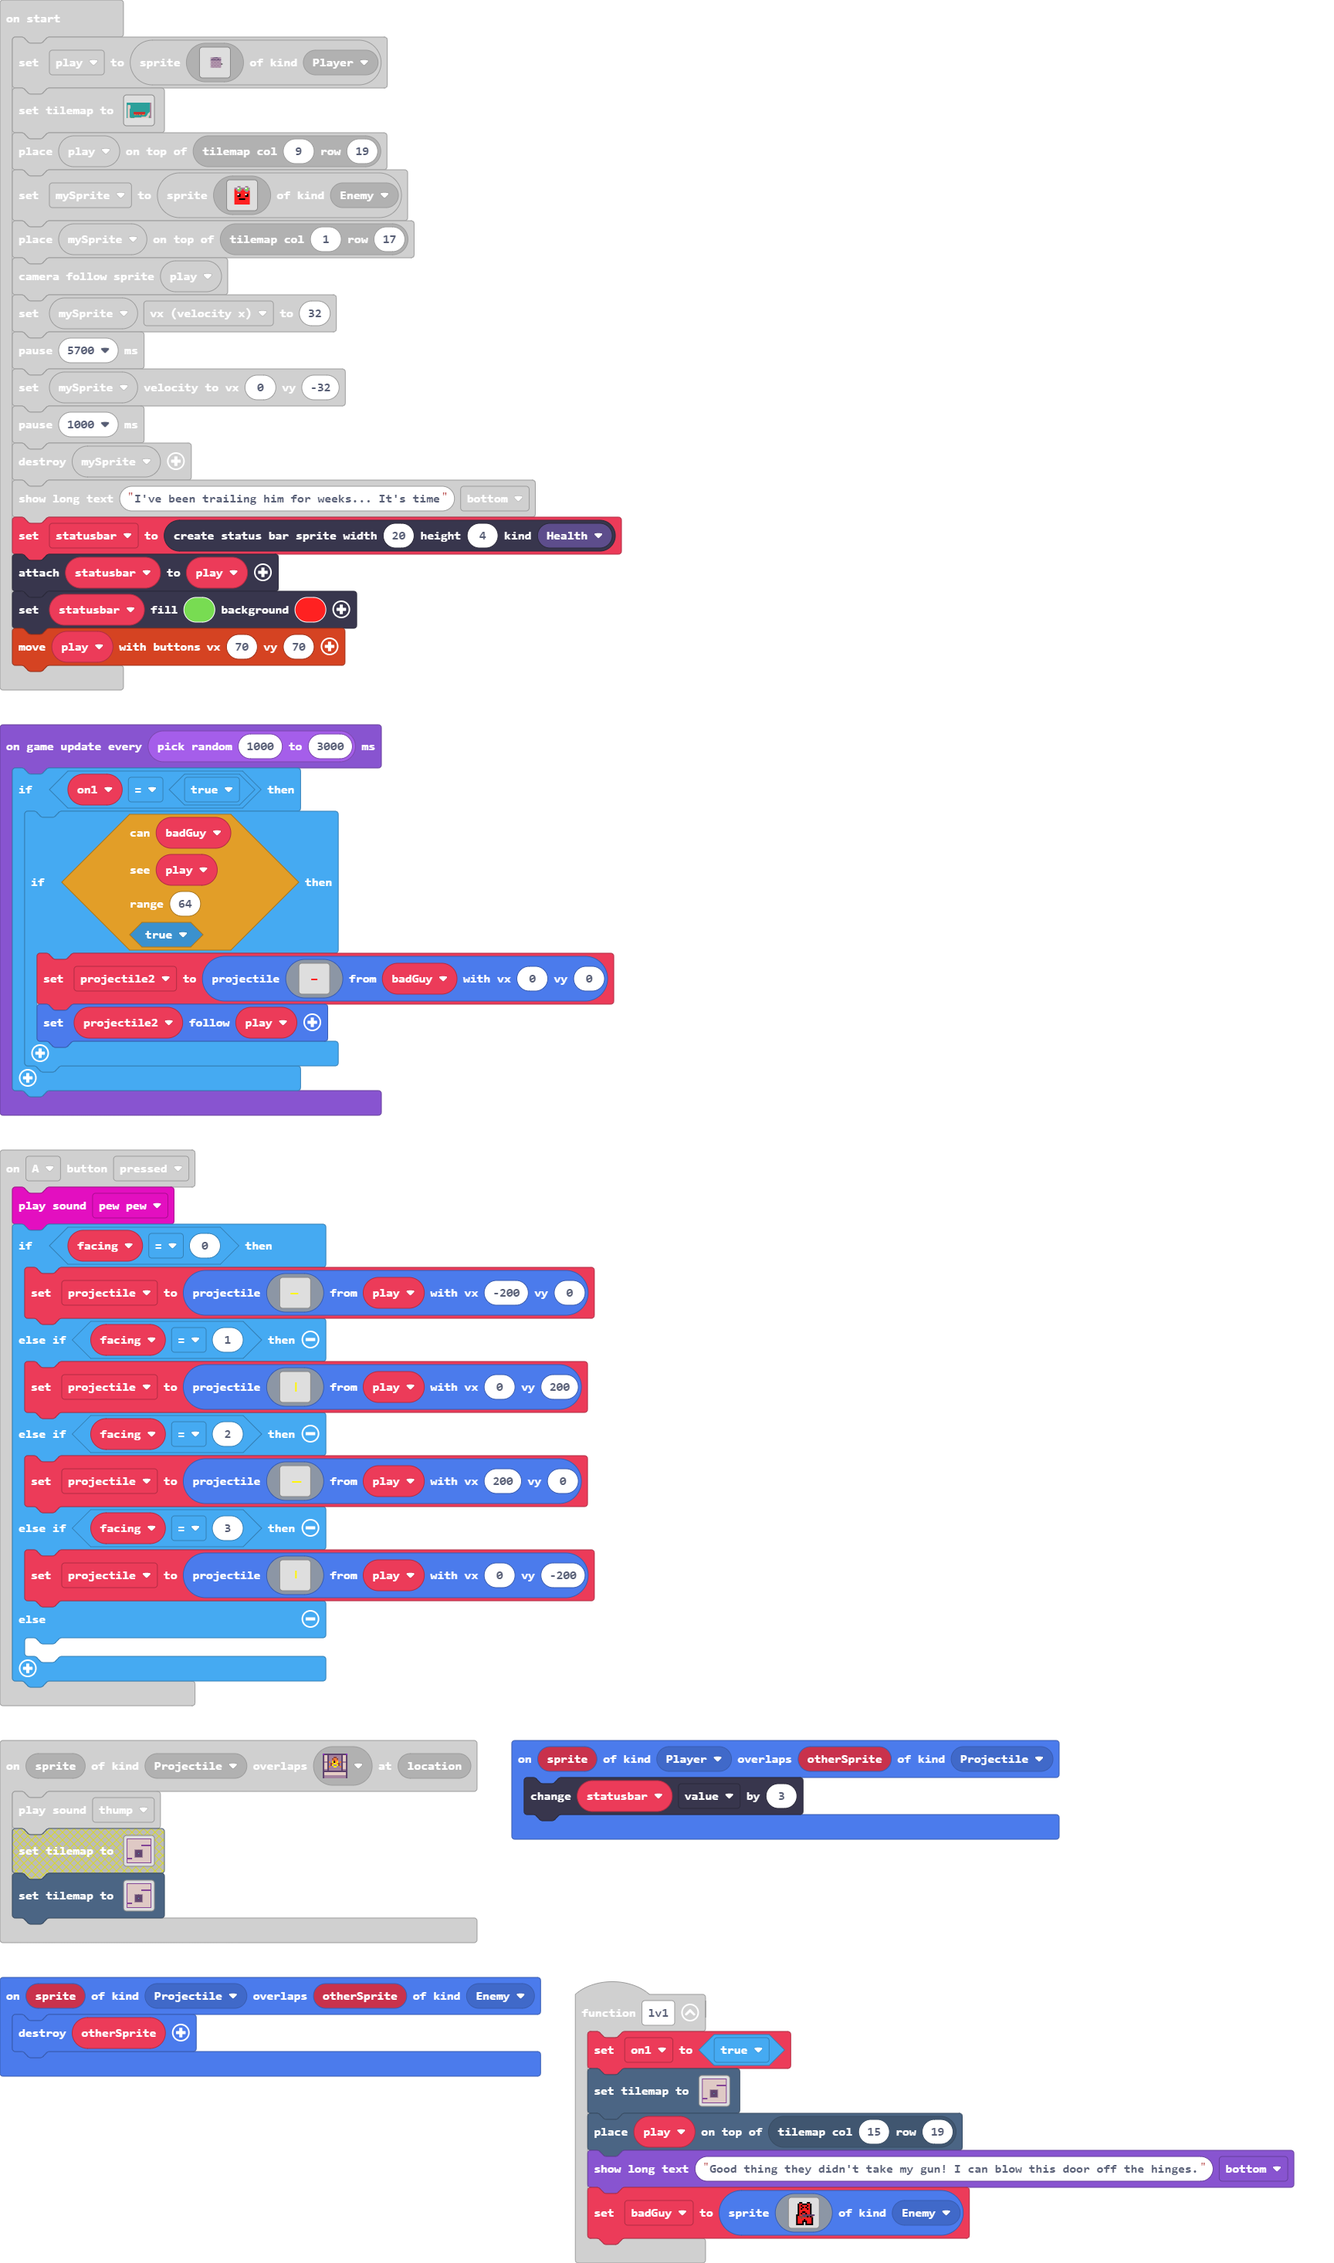
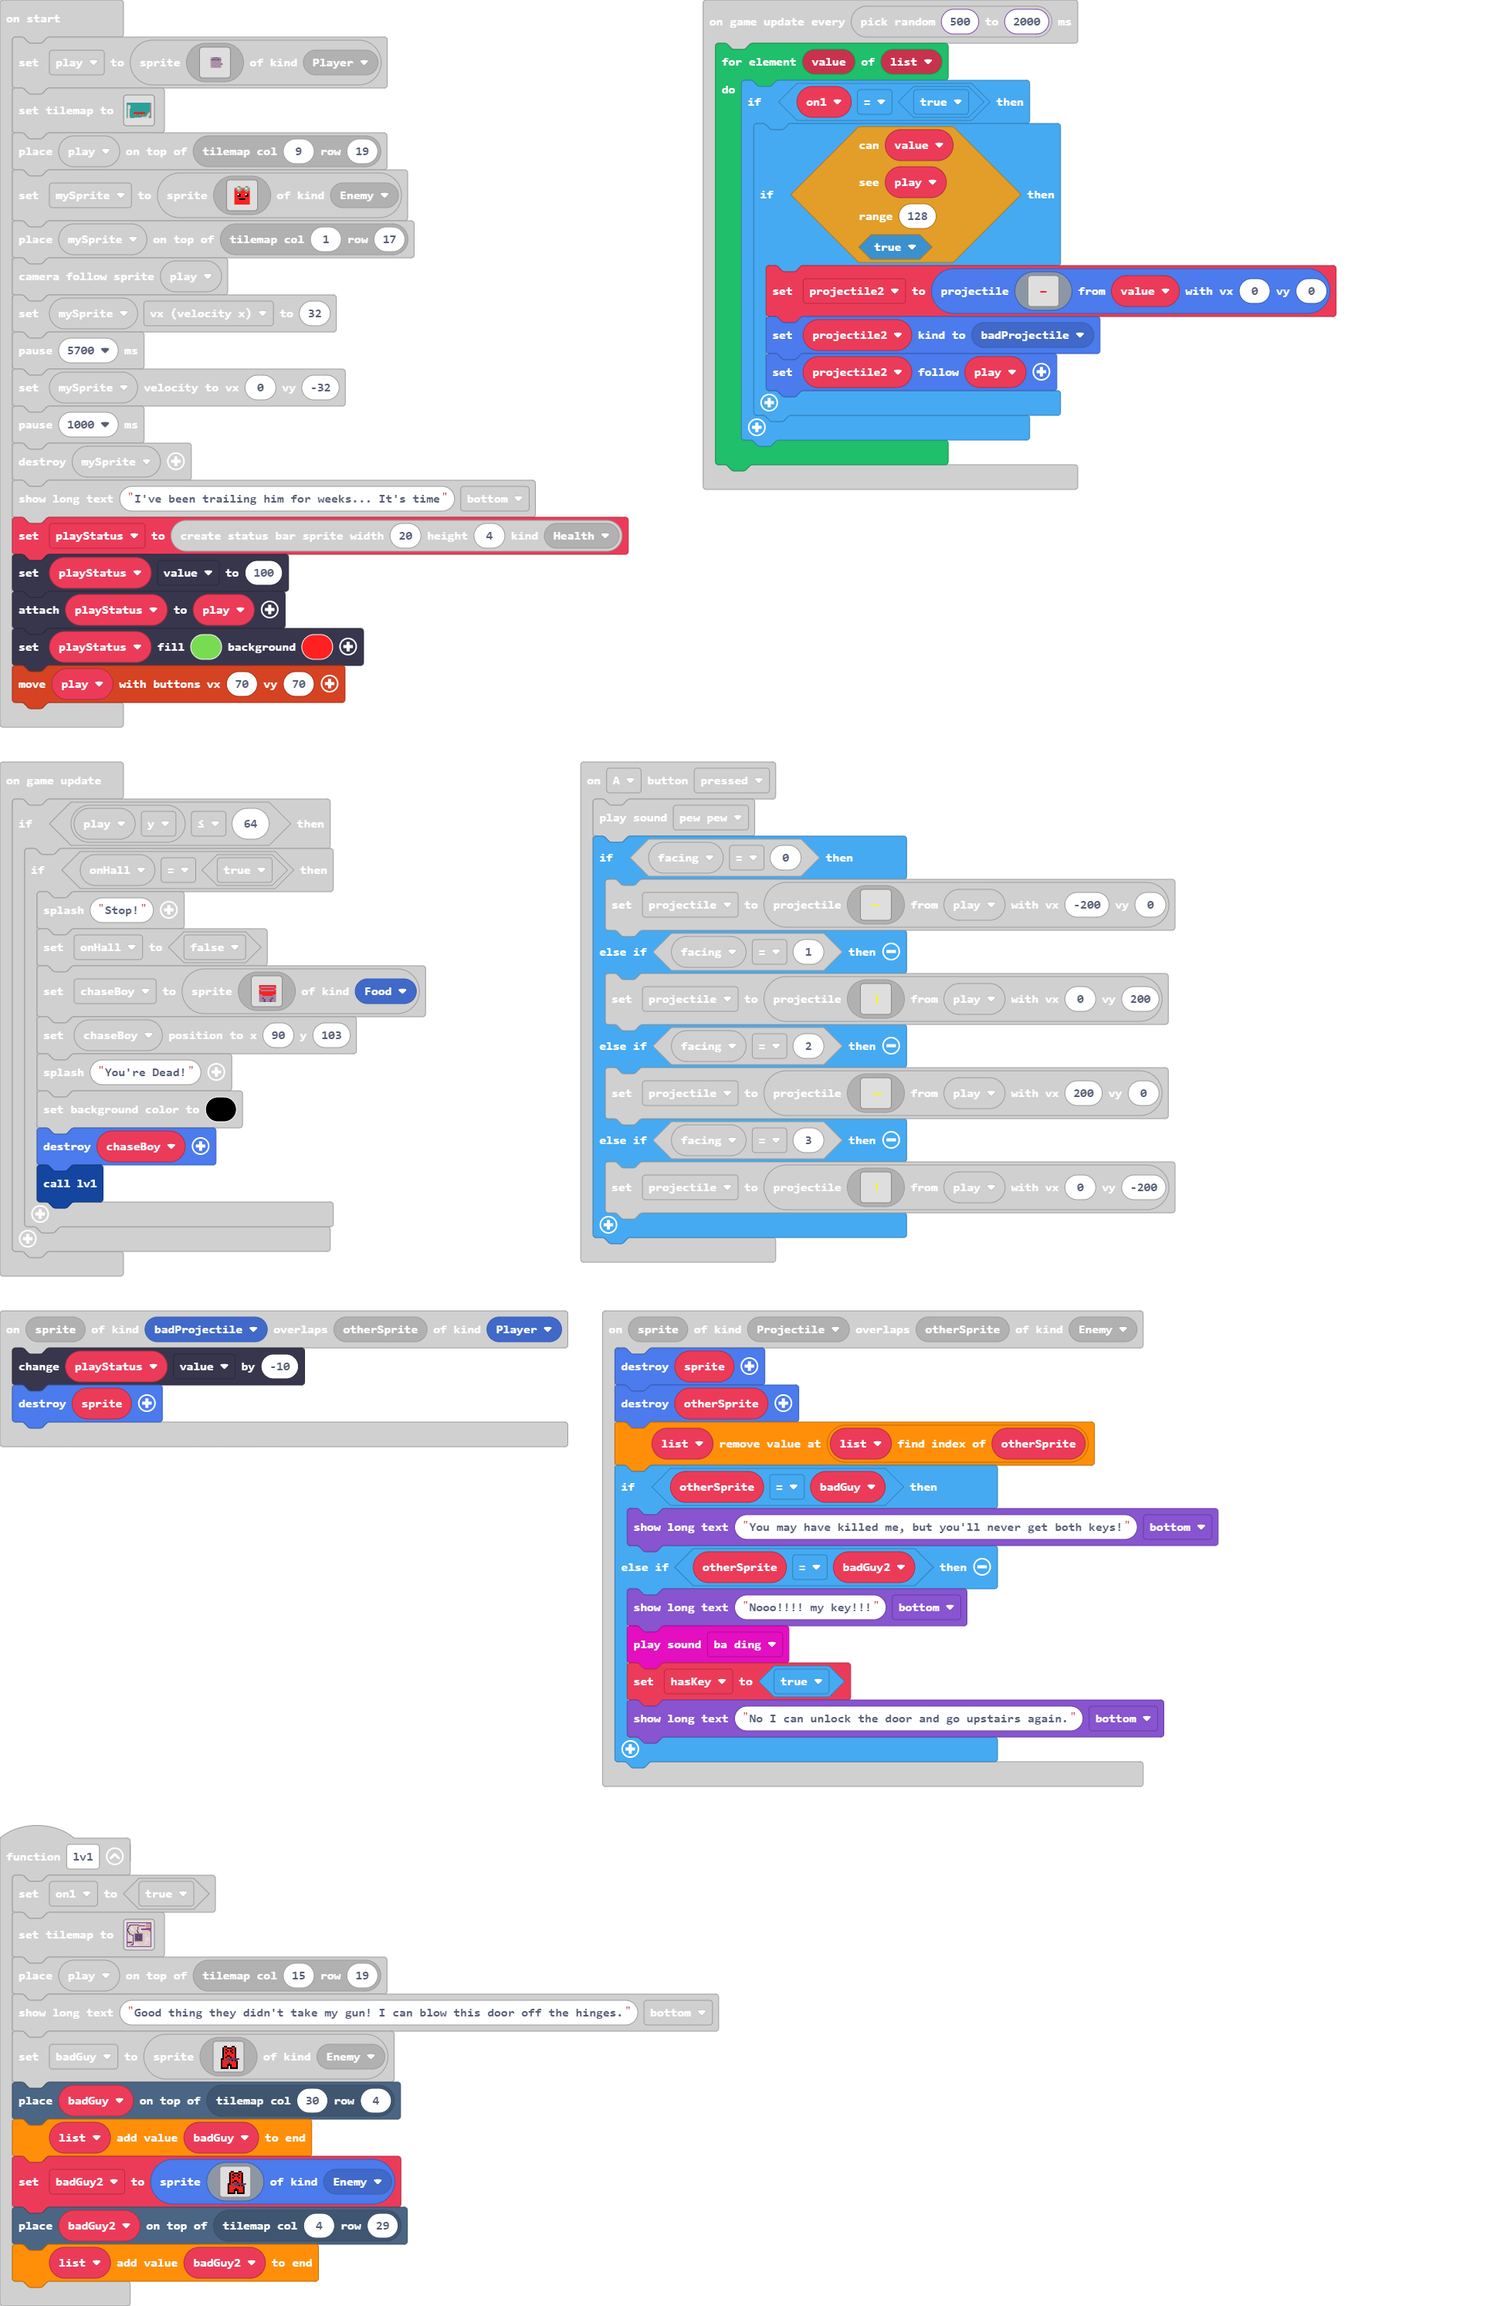
Update main.blocks, main.ts, tilemap.g.jres, tilemap.g.ts

diff --git a/tilemap.g.ts b/tilemap.g.ts
@@ -54,6 +54,8 @@ namespace myTiles {
     export const tile25 = image.ofBuffer(hex``);
     //% fixedInstance jres blockIdentity=images._tile
     export const tile26 = image.ofBuffer(hex``);
+    //% fixedInstance jres blockIdentity=images._tile
+    export const tile27 = image.ofBuffer(hex``);
 
     helpers._registerFactory("tilemap", function(name: string) {
         switch(helpers.stringTrim(name)) {
@@ -161,41 +163,6 @@ namespace myTiles {
 2..............................2
 22222222222222222222222222222222
 `, [myTiles.transparency16,sprites.dungeon.purpleOuterNorthWest,sprites.dungeon.purpleOuterWest0,sprites.dungeon.purpleOuterSouthEast,sprites.dungeon.purpleOuterNorth0,sprites.dungeon.floorLight2,sprites.dungeon.purpleOuterSouth1,sprites.dungeon.doorOpenNorth,sprites.dungeon.purpleInnerNorthEast,sprites.dungeon.purpleInnerSouthEast,sprites.dungeon.stairWest,sprites.dungeon.stairNorth,sprites.dungeon.darkGroundNorthWest0,sprites.dungeon.darkGroundWest,sprites.dungeon.darkGroundSouthWest0,sprites.dungeon.darkGroundNorth,sprites.dungeon.darkGroundSouth,sprites.dungeon.darkGroundNorthEast0,sprites.dungeon.darkGroundSouthEast0,sprites.dungeon.darkGroundCenter,sprites.dungeon.collectibleInsignia,sprites.dungeon.darkGroundEast,sprites.dungeon.purpleInnerNorthWest,sprites.dungeon.purpleInnerSouthWest,sprites.dungeon.purpleOuterNorth1,sprites.dungeon.purpleOuterNorthEast,sprites.dungeon.purpleOuterEast0,sprites.dungeon.purpleOuterSouthWest,sprites.dungeon.doorOpenSouth], TileScale.Sixteen);
-            case "level3":
[1 lines of base64/hex data omitted]
-22222.22222222222222222222222222
-2..............................2
-2..............................2
-2..............................2
-2..............................2
-2..............................2
-2..............................2
-2..............................2
-2..................2222222222222
-2..................2222222222222
-2..............................2
-2..............................2
-2..............................2
-2..............................2
-2.........22222.22222..........2
-2.........2.........2..........2
-2.........2.........2..........2
-2.........2.........2..........2
-2.........2.........2..........2
-2.........2.........2..........2
-2.........2.........2..........2
-2.........2.........2..........2
-2.........2.........2..........2
-2.........2.........2..........2
-2.........22222222222..........2
-2222222........................2
-2222222........................2
-2..............................2
-2..............................2
-2..............................2
-2..............................2
-22222222222222222222222222222222
-`, [myTiles.transparency16,sprites.dungeon.stairWest,sprites.dungeon.stairNorth,sprites.dungeon.darkGroundNorthWest0,sprites.dungeon.darkGroundNorth,sprites.dungeon.darkGroundNorthEast0,sprites.dungeon.darkGroundSouthWest0,sprites.dungeon.darkGroundSouthEast0,sprites.dungeon.darkGroundSouth,sprites.dungeon.darkGroundWest,sprites.dungeon.darkGroundEast,sprites.dungeon.darkGroundCenter,sprites.dungeon.collectibleInsignia,sprites.dungeon.purpleOuterNorth1,sprites.dungeon.purpleInnerSouthWest,sprites.dungeon.purpleInnerNorthWest,sprites.dungeon.purpleOuterSouth1,sprites.dungeon.purpleOuterSouthWest,sprites.dungeon.purpleOuterSouthEast,sprites.dungeon.purpleOuterWest0,sprites.dungeon.purpleOuterNorthWest,sprites.dungeon.purpleOuterNorth0,sprites.dungeon.purpleOuterNorthEast,sprites.dungeon.purpleOuterEast0,sprites.dungeon.floorLight2,sprites.dungeon.purpleInnerNorthEast,sprites.dungeon.purpleInnerSouthEast,sprites.dungeon.doorOpenNorth,sprites.dungeon.doorLockedSouth], TileScale.Sixteen);
             case "level6":
             case "level6":return tiles.createTilemap(hex`1000100000000000000000000000000000000000000000000000000000000000000000000000000000000000000000000000000000000000000000000000000000000000000000000000000000000000000000000000000000000000000000000000000000000000000000000000000000000000000000000000000000000000000000000000000000000000000000000000000000000000000000000000000000000000000000000000000000000000000000000000000000000000000000000000000000000000000000000000000000000000000000000000000000000000000000000000000000000000000000000000000000000000000000000000000000000000`, img`
 . . . . . . . . . . . . . . . . 
@@ -234,6 +201,60 @@ namespace myTiles {
 . . . . . . . . . . . . . . . . 
 . . . . . . . . . . . . . . . . 
 `, [myTiles.transparency16], TileScale.Sixteen);
+            case "level8":
+            case "level8":return tiles.createTilemap(hex`1000100000000000000000000000000000000000000000000000000000000000000000000000000000000000000000000000000000000000000000000000000000000000000000000000000000000000000000000000000000000000000000000000000000000000000000000000000000000000000000000000000000000000000000000000000000000000000000000000000000000000000000000000000000000000000000000000000000000000000000000000000000000000000000000000000000000000000000000000000000000000000000000000000000000000000000000000000000000000000000000000000000000000000000000000000000000000`, img`
+. . . . . . . . . . . . . . . . 
+. . . . . . . . . . . . . . . . 
+. . . . . . . . . . . . . . . . 
+. . . . . . . . . . . . . . . . 
+. . . . . . . . . . . . . . . . 
+. . . . . . . . . . . . . . . . 
+. . . . . . . . . . . . . . . . 
+. . . . . . . . . . . . . . . . 
+. . . . . . . . . . . . . . . . 
+. . . . . . . . . . . . . . . . 
+. . . . . . . . . . . . . . . . 
+. . . . . . . . . . . . . . . . 
+. . . . . . . . . . . . . . . . 
+. . . . . . . . . . . . . . . . 
+. . . . . . . . . . . . . . . . 
+. . . . . . . . . . . . . . . . 
+`, [myTiles.transparency16], TileScale.Sixteen);
+            case "level3":
[1 lines of base64/hex data omitted]
+22222.22222222222222222222222222
+2..............................2
+2..............................2
+2..............................2
+2..............................2
+2..............................2
+2..............................2
+2..............................2
+2..................2222222222222
+2..................2222222222222
+2..............................2
+2..............................2
+2..............................2
+2..............................2
+2.........22222.22222..........2
+2.........2.........2..........2
+2.........2.........2..........2
+2.........2.........2..........2
+2.........2.........2..........2
+2.........2.........2..........2
+2.........2.........2..........2
+2.........2.........2..........2
+2.........2.........2..........2
+2.........2.........2..........2
+2.........22222222222..........2
+2222222........................2
+2222222........................2
+2..............................2
+2..............................2
+2..............................2
+2..............................2
+22222222222222222222222222222222
+`, [myTiles.transparency16,sprites.dungeon.stairWest,sprites.dungeon.stairNorth,sprites.dungeon.darkGroundNorthWest0,sprites.dungeon.darkGroundNorth,sprites.dungeon.darkGroundNorthEast0,sprites.dungeon.darkGroundSouthWest0,sprites.dungeon.darkGroundSouthEast0,sprites.dungeon.darkGroundSouth,sprites.dungeon.darkGroundWest,sprites.dungeon.darkGroundEast,sprites.dungeon.darkGroundCenter,sprites.dungeon.collectibleInsignia,sprites.dungeon.purpleOuterNorth1,sprites.dungeon.purpleInnerSouthWest,sprites.dungeon.purpleInnerNorthWest,sprites.dungeon.purpleOuterSouth1,sprites.dungeon.purpleOuterSouthWest,sprites.dungeon.purpleOuterSouthEast,sprites.dungeon.purpleOuterWest0,sprites.dungeon.purpleOuterNorthWest,sprites.dungeon.purpleOuterNorth0,sprites.dungeon.purpleOuterNorthEast,sprites.dungeon.purpleOuterEast0,sprites.dungeon.floorLight2,sprites.dungeon.purpleInnerNorthEast,sprites.dungeon.purpleInnerSouthEast,sprites.dungeon.doorOpenNorth,sprites.dungeon.doorLockedSouth,myTiles.tile27,sprites.dungeon.collectibleRedCrystal,sprites.dungeon.collectibleBlueCrystal], TileScale.Sixteen);
         }
         return null;
     })
@@ -293,6 +314,8 @@ namespace myTiles {
             case "tile25":return tile25;
             case "myTile24":
             case "tile26":return tile26;
+            case "myTile25":
+            case "tile27":return tile27;
         }
         return null;
     })

diff --git a/main.ts b/main.ts
@@ -1,3 +1,6 @@
+namespace SpriteKind {
+    export const badProjectile = SpriteKind.create()
+}
 function lv1 () {
     on1 = true
     tiles.setTilemap(tilemap`level3`)
@@ -21,6 +24,28 @@ function lv1 () {
         . . . f 2 2 2 f . f 2 2 2 f . . 
         . . . f f f f f . f f f f f . . 
         `, SpriteKind.Enemy)
+    tiles.placeOnTile(badGuy, tiles.getTileLocation(30, 4))
+    list.push(badGuy)
+    badGuy2 = sprites.create(img`
+        . . . . . . . . . . . . . . . . 
+        . . . . . f f . . . f f . . . . 
+        . . . . f 2 2 f f f 2 2 f . . . 
+        . . . . f 2 f 2 2 2 f 2 f . . . 
+        . . . . f 2 2 f 2 f 2 2 f . . . 
+        . . . . f 2 f 2 2 2 f 2 f . . . 
+        . . . . f 2 2 2 2 2 2 2 f . . . 
+        . . . . f 2 2 f f 2 2 2 f . . . 
+        . . . . f 2 f 2 2 f 2 2 f . . . 
+        . . . f f 2 2 c c c c c c c c . 
+        . . . f 2 e e e c e f e f e . . 
+        . . . f 2 2 e 2 2 2 2 2 2 f . . 
+        . . . f 2 2 2 2 f 2 2 2 2 f . . 
+        . . . f 2 2 2 f f f 2 2 2 f . . 
+        . . . f 2 2 2 f . f 2 2 2 f . . 
+        . . . f f f f f . f f f f f . . 
+        `, SpriteKind.Enemy)
+    tiles.placeOnTile(badGuy2, tiles.getTileLocation(4, 29))
+    list.push(badGuy2)
 }
 scene.onOverlapTile(SpriteKind.Projectile, sprites.dungeon.doorLockedSouth, function (sprite, location) {
     music.thump.play()
@@ -125,8 +150,6 @@ controller.A.onEvent(ControllerButtonEvent.Pressed, function () {
             . . . . . . . . . . . . . . . . 
             . . . . . . . . . . . . . . . . 
             `, play, 0, -200)
-    } else {
-    	
     }
 })
 controller.left.onEvent(ControllerButtonEvent.Pressed, function () {
@@ -264,8 +287,9 @@ controller.right.onEvent(ControllerButtonEvent.Pressed, function () {
         `)
     facing = 2
 })
-sprites.onOverlap(SpriteKind.Player, SpriteKind.Projectile, function (sprite, otherSprite) {
-    statusbar.value += 3
+sprites.onOverlap(SpriteKind.badProjectile, SpriteKind.Player, function (sprite, otherSprite) {
+    playStatus.value += -10
+    sprite.destroy()
 })
 controller.down.onEvent(ControllerButtonEvent.Pressed, function () {
     play.setImage(img`
@@ -297,16 +321,29 @@ scene.onOverlapTile(SpriteKind.Player, sprites.dungeon.doorOpenNorth, function (
     hallChase()
 })
 sprites.onOverlap(SpriteKind.Projectile, SpriteKind.Enemy, function (sprite, otherSprite) {
+    sprite.destroy()
     otherSprite.destroy()
+    list.removeAt(list.indexOf(otherSprite))
+    if (otherSprite == badGuy) {
+        game.showLongText("You may have killed me, but you'll never get both keys!", DialogLayout.Bottom)
+    } else if (otherSprite == badGuy2) {
+        game.showLongText("Nooo!!!! my key!!!", DialogLayout.Bottom)
+        music.baDing.play()
+        hasKey = true
+        game.showLongText("No I can unlock the door and go upstairs again.", DialogLayout.Bottom)
+    }
 })
 let projectile2: Sprite = null
 let chaseBoy: Sprite = null
+let hasKey = false
 let onHall = false
 let projectile: Sprite = null
 let facing = 0
+let badGuy2: Sprite = null
+let list: Sprite[] = []
 let badGuy: Sprite = null
 let on1 = false
-let statusbar: StatusBarSprite = null
+let playStatus: StatusBarSprite = null
 let play: Sprite = null
 play = sprites.create(img`
     ........................
@@ -362,9 +399,10 @@ mySprite.setVelocity(0, -32)
 pause(1000)
 mySprite.destroy()
 game.showLongText("I've been trailing him for weeks... It's time", DialogLayout.Bottom)
-statusbar = statusbars.create(20, 4, StatusBarKind.Health)
-statusbar.attachToSprite(play)
-statusbar.setColor(7, 2)
+playStatus = statusbars.create(20, 4, StatusBarKind.Health)
+playStatus.value = 100
+playStatus.attachToSprite(play)
+playStatus.setColor(7, 2)
 controller.moveSprite(play, 70, 70)
 game.onUpdate(function () {
     if (play.y <= 64) {
@@ -388,41 +426,45 @@ game.onUpdate(function () {
                 . . . b b b c b b b c b b b . . 
                 . . . b b b c b b b c b b b . . 
                 . . . . . . . . . . . . . . . . 
-                `, SpriteKind.Player)
+                `, SpriteKind.Food)
             chaseBoy.setPosition(90, 103)
             game.splash("You're Dead!")
             scene.setBackgroundColor(15)
+            chaseBoy.destroy()
             lv1()
         }
     }
 })
-game.onUpdateInterval(randint(1000, 3000), function () {
-    if (on1 == true) {
-        if (sight.isInSight(
-        badGuy,
-        play,
-        64,
-        true
-        )) {
-            projectile2 = sprites.createProjectileFromSprite(img`
-                . . . . . . . . . . . . . . . . 
-                . . . . . . . . . . . . . . . . 
-                . . . . . . . . . . . . . . . . 
-                . . . . . . . . . . . . . . . . 
-                . . . . . . . . . . . . . . . . 
-                . . . . . . . . . . . . . . . . 
-                . . . . . . . . . . . . . . . . 
-                . . . . . . . . . . . . . . . . 
-                . . . . . . 2 2 2 2 . . . . . . 
-                . . . . . . . . . . . . . . . . 
-                . . . . . . . . . . . . . . . . 
-                . . . . . . . . . . . . . . . . 
-                . . . . . . . . . . . . . . . . 
-                . . . . . . . . . . . . . . . . 
-                . . . . . . . . . . . . . . . . 
-                . . . . . . . . . . . . . . . . 
-                `, badGuy, 0, 0)
-            projectile2.follow(play)
+game.onUpdateInterval(randint(500, 2000), function () {
+    for (let value of list) {
+        if (on1 == true) {
+            if (sight.isInSight(
+            value,
+            play,
+            128,
+            true
+            )) {
+                projectile2 = sprites.createProjectileFromSprite(img`
+                    . . . . . . . . . . . . . . . . 
+                    . . . . . . . . . . . . . . . . 
+                    . . . . . . . . . . . . . . . . 
+                    . . . . . . . . . . . . . . . . 
+                    . . . . . . . . . . . . . . . . 
+                    . . . . . . . . . . . . . . . . 
+                    . . . . . . . . . . . . . . . . 
+                    . . . . . . . . . . . . . . . . 
+                    . . . . . . 2 2 2 2 . . . . . . 
+                    . . . . . . . . . . . . . . . . 
+                    . . . . . . . . . . . . . . . . 
+                    . . . . . . . . . . . . . . . . 
+                    . . . . . . . . . . . . . . . . 
+                    . . . . . . . . . . . . . . . . 
+                    . . . . . . . . . . . . . . . . 
+                    . . . . . . . . . . . . . . . . 
+                    `, value, 0, 0)
+                projectile2.setKind(SpriteKind.badProjectile)
+                projectile2.follow(play)
+            }
         }
     }
 })
